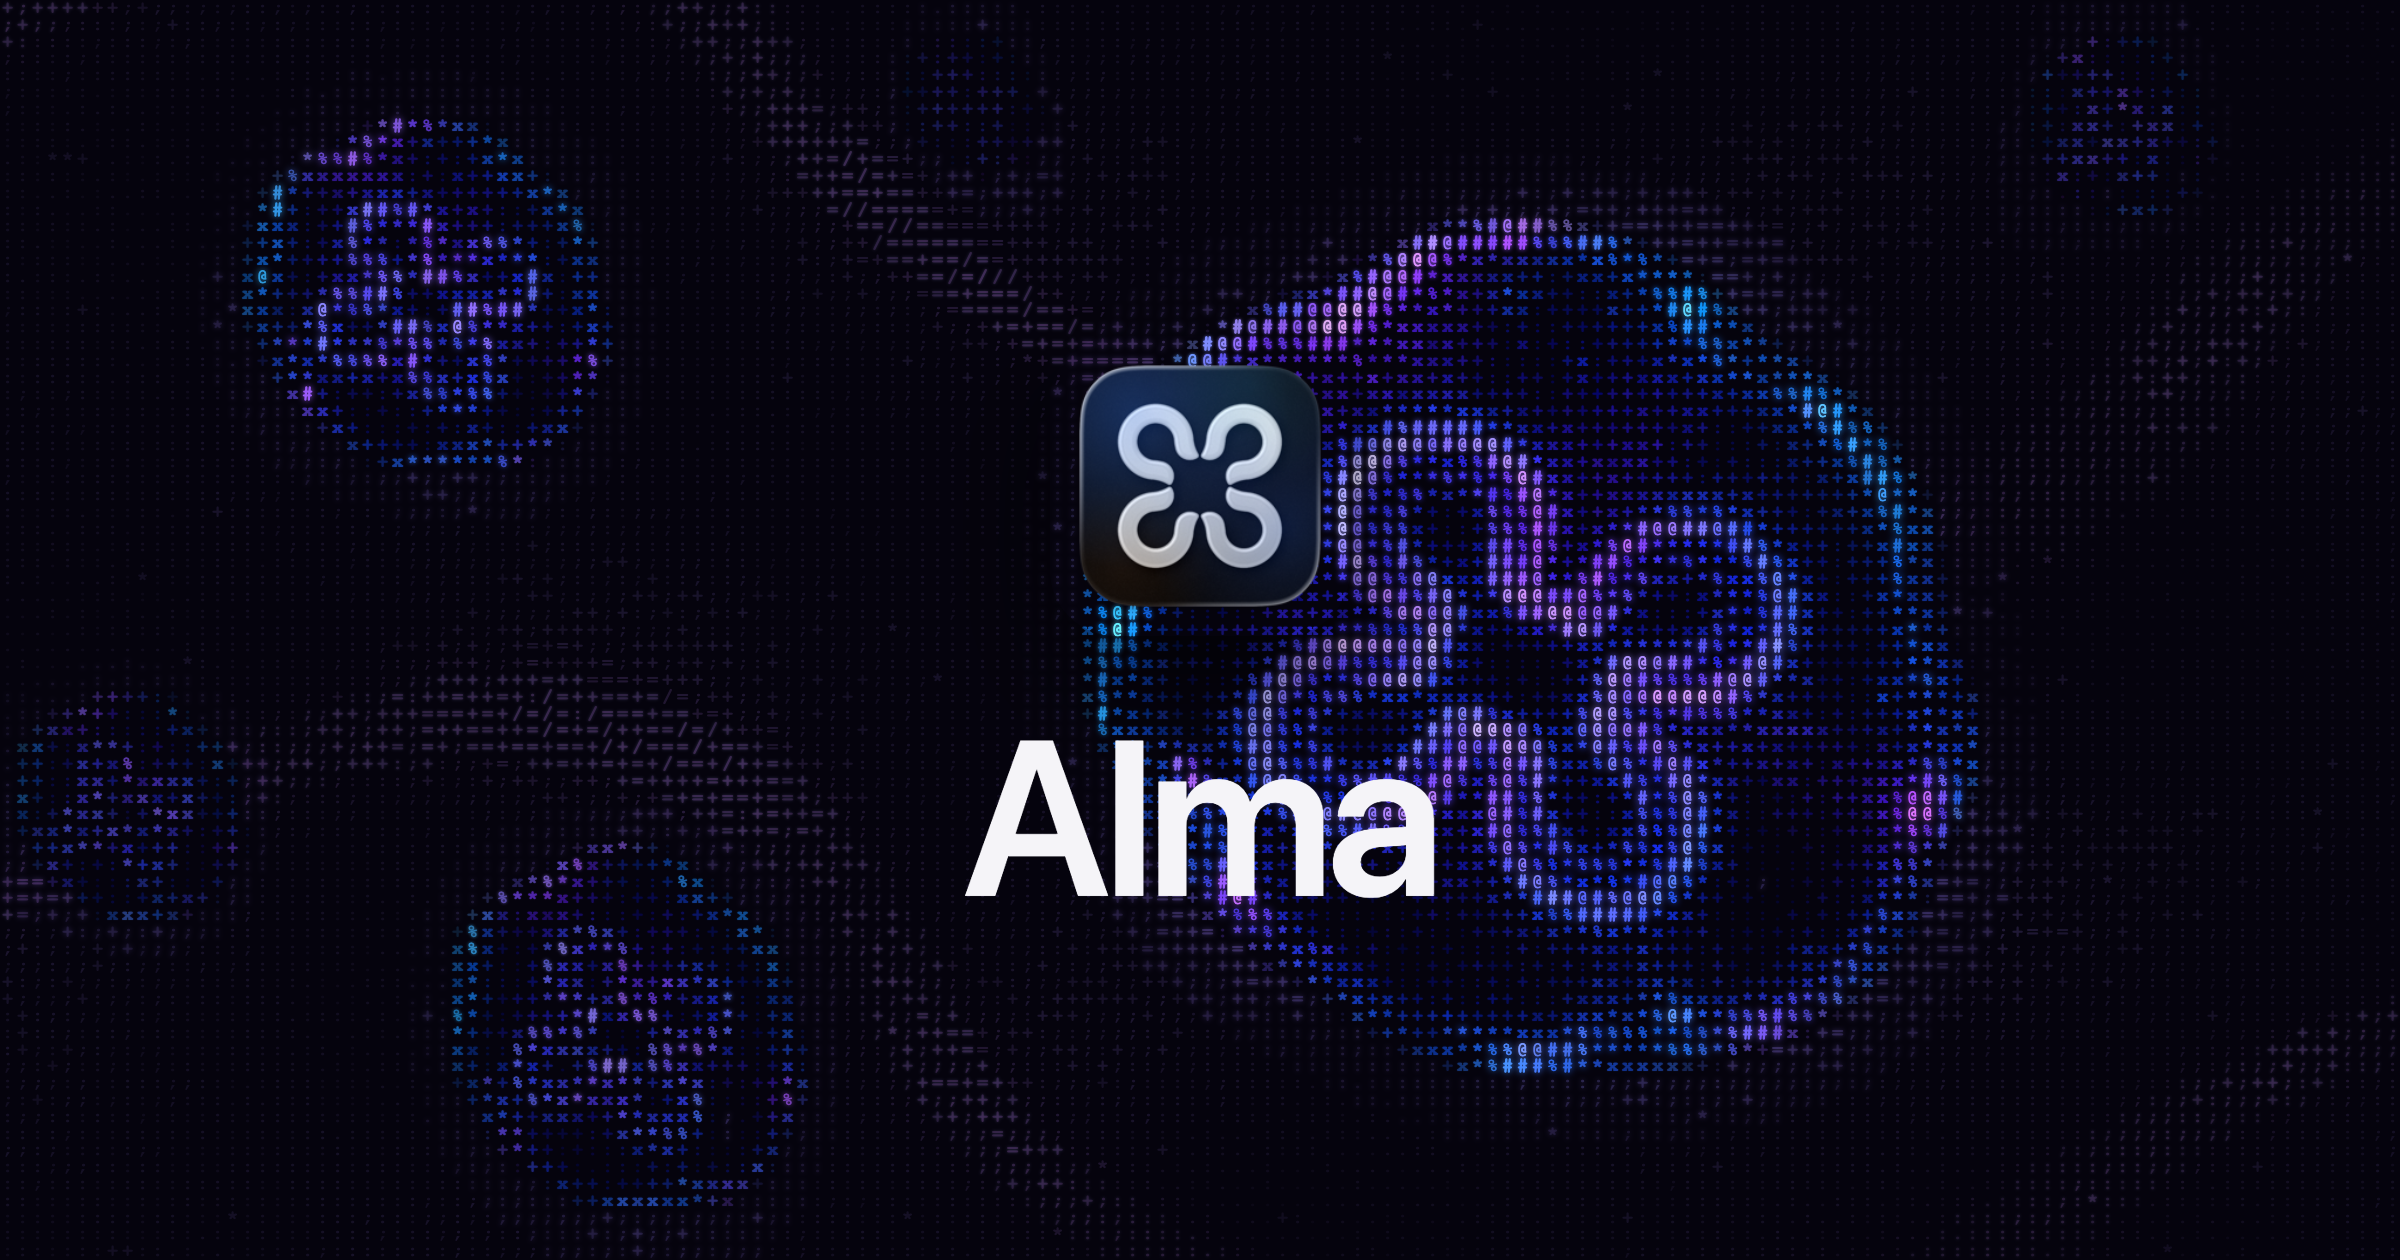
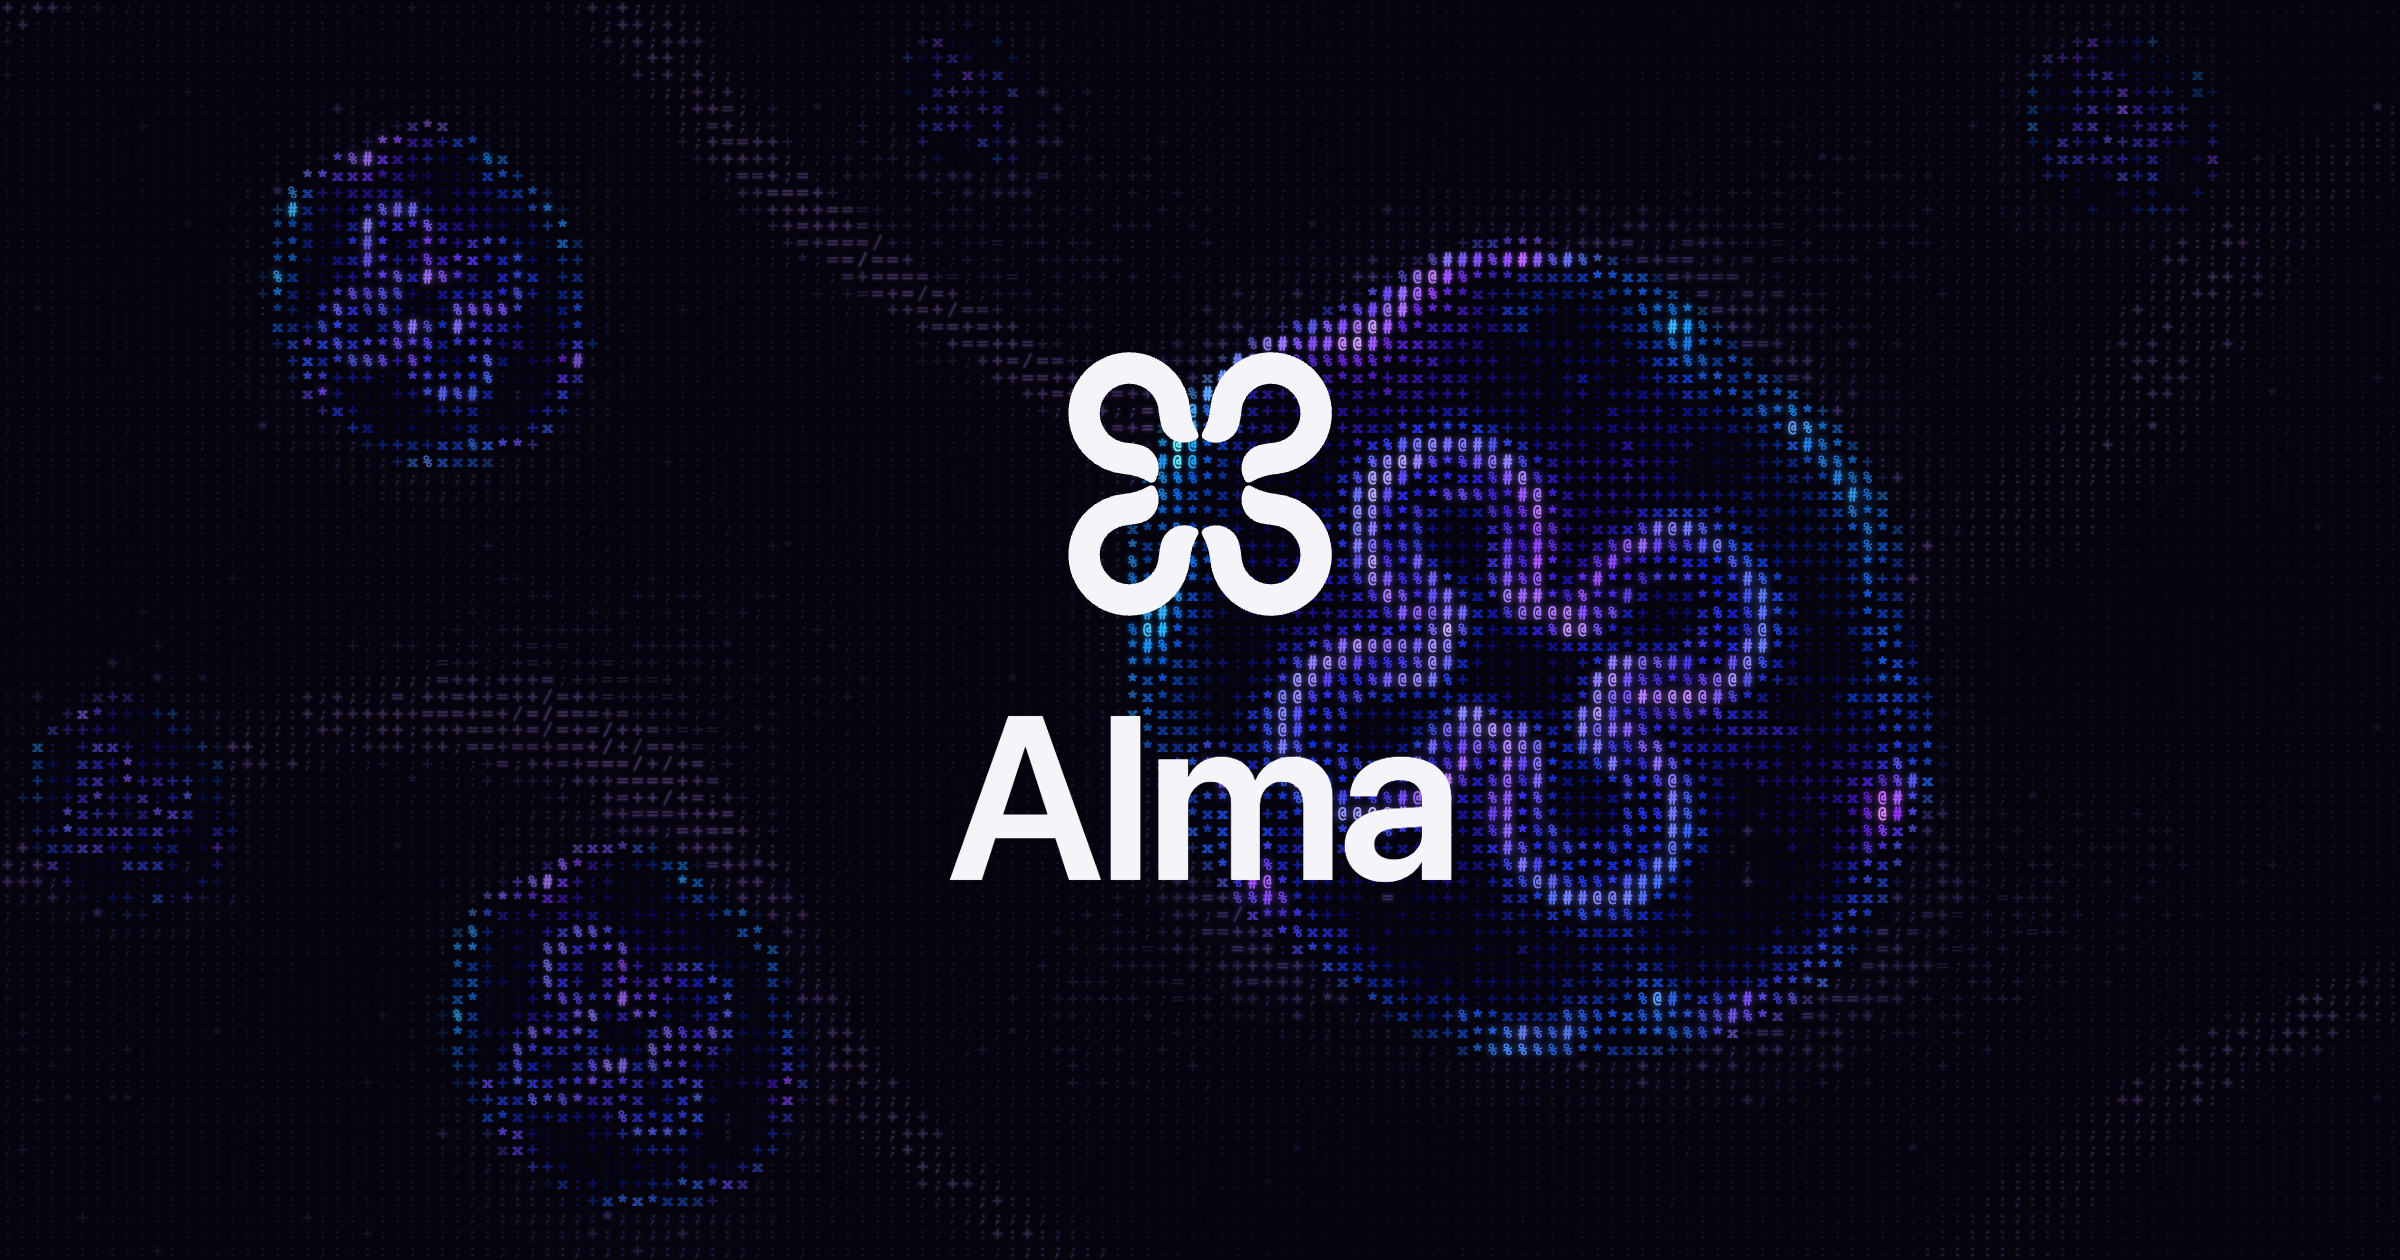
invite,join: give Clerk its captcha element, hold the card still, and show the bare mark
Bot protection is on for this instance, so a custom sign-up needs a
clerk-captcha element before signUp.create; without one Clerk falls back
to an invisible widget that silently blocked some people, which is the
Something went wrong they saw. The card now has a fixed floor with its
content centred, so it no longer shifts as states swap, the Open Alma
link is gone from the download state, failures log their real reason,
and the share image carries the mark alone with no icon plate.

Claude-Session: https://claude.ai/code/session_01G5Z1M58NZQjkXoVsRNx99X

diff --git a/public/page/alma-invite.js b/public/page/alma-invite.js
@@ -7,7 +7,6 @@
   const els = {
     readySub: document.getElementById("ready-sub"),
     download: document.getElementById("download"),
-    open: document.getElementById("open"),
     closedTitle: document.getElementById("closed-title"),
     closedSub: document.getElementById("closed-sub"),
     form: document.getElementById("form"),
@@ -27,7 +26,8 @@
 
   const show = (state) => { card.dataset.state = state; };
 
-  function closed(kind) {
+  function closed(kind, detail) {
+    if (detail !== undefined) console.error("alma invite:", kind, detail);
     els.closedTitle.textContent = CLOSED[kind][0];
     els.closedSub.textContent = CLOSED[kind][1];
     show("closed");
@@ -37,10 +37,6 @@
     els.readySub.innerHTML = email
       ? "Signed in as <strong>" + email + "</strong>."
       : "Your account is ready.";
-    els.open.hidden = false;
-    els.open.addEventListener("click", () => {
-      window.location.href = "ai.almaapp.helper://";
-    });
     if (!(await downloadReady)) {
       els.readySub.textContent = "The download is not reachable right now. Refresh in a moment.";
     }
@@ -67,11 +63,11 @@
   })();
 
   async function consumeTicket(ticket) {
-    if (typeof Clerk === "undefined") return closed("error");
+    if (typeof Clerk === "undefined") return closed("error", "clerk-js did not load");
     try {
       await Clerk.load();
-    } catch {
-      return closed("error");
+    } catch (failure) {
+      return closed("error", failure);
     }
     if (Clerk.user) {
       ready(Clerk.user.primaryEmailAddress?.emailAddress ?? "");
@@ -84,11 +80,11 @@
         ready(attempt.emailAddress ?? "");
         return;
       }
-      closed("error");
+      closed("error", attempt.status);
     } catch (refusal) {
-      const already = /already|taken|exists/i.test(String(refusal?.errors?.[0]?.code ?? refusal));
-      if (already) ready("");
-      else closed("used");
+      const code = String(refusal?.errors?.[0]?.code ?? refusal);
+      if (/already|taken|exists/i.test(code)) ready("");
+      else closed("used", refusal);
     }
   }
 

diff --git a/public/page/alma-invite.css b/public/page/alma-invite.css
@@ -40,6 +40,10 @@ canvas#ambient.lit { opacity: 1; }
 .card {
   position: relative; z-index: 1;
   width: min(22rem, 100%);
+  /* A fixed floor with the content centred inside it: every state occupies
+     the same box, so the card never moves as the states swap. */
+  min-height: 252px;
+  display: flex; flex-direction: column; justify-content: center;
   padding: 22px;
   border-radius: 14px;
   background: var(--card);
@@ -94,3 +98,6 @@ input[type="email"]:focus { outline: none; border-color: var(--accent); box-shad
 .spin { width: 16px; height: 16px; vertical-align: -3px; margin-right: 6px; animation: spin 0.8s linear infinite; }
 @keyframes spin { to { transform: rotate(360deg); } }
 @media (prefers-reduced-motion: reduce) { .spin { animation: none; } canvas#ambient { transition: none; } }
+
+#clerk-captcha:empty { display: none; }
+#clerk-captcha { margin-top: 14px; }

diff --git a/site/pages/invite/index.html b/site/pages/invite/index.html
@@ -46,8 +46,9 @@
         <a class="btn" id="download" href="#" aria-disabled="true">
           <svg class="icon" viewBox="0 0 24 24" fill="none" stroke="currentColor" stroke-width="2" stroke-linecap="round" stroke-linejoin="round"><path d="M21 15v4a2 2 0 0 1-2 2H5a2 2 0 0 1-2-2v-4"/><polyline points="7 10 12 15 17 10"/><line x1="12" x2="12" y1="15" y2="3"/></svg>Download Alma
         </a>
-        <button class="linkbtn" id="open" type="button" hidden>Already have Alma? Open it</button>
       </div>
+
+      <div id="clerk-captcha" data-cl-theme="dark" data-cl-size="flexible"></div>
 
       <div class="state" data-for="closed">
         <h1 id="closed-title"></h1>

diff --git a/site/pages/join/index.html b/site/pages/join/index.html
@@ -46,8 +46,9 @@
         <a class="btn" id="download" href="#" aria-disabled="true">
           <svg class="icon" viewBox="0 0 24 24" fill="none" stroke="currentColor" stroke-width="2" stroke-linecap="round" stroke-linejoin="round"><path d="M21 15v4a2 2 0 0 1-2 2H5a2 2 0 0 1-2-2v-4"/><polyline points="7 10 12 15 17 10"/><line x1="12" x2="12" y1="15" y2="3"/></svg>Download Alma
         </a>
-        <button class="linkbtn" id="open" type="button" hidden>Already have Alma? Open it</button>
       </div>
+
+      <div id="clerk-captcha" data-cl-theme="dark" data-cl-size="flexible"></div>
 
       <div class="state" data-for="closed">
         <h1 id="closed-title"></h1>
